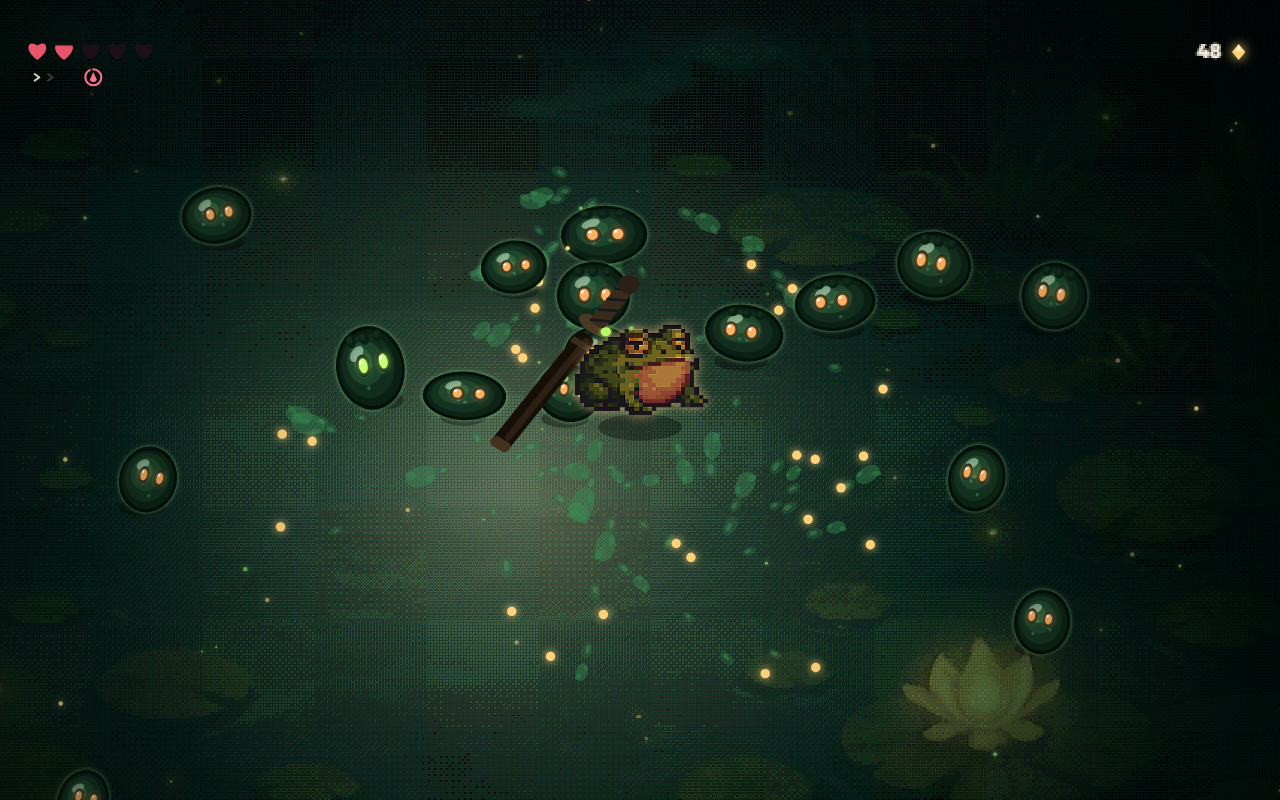
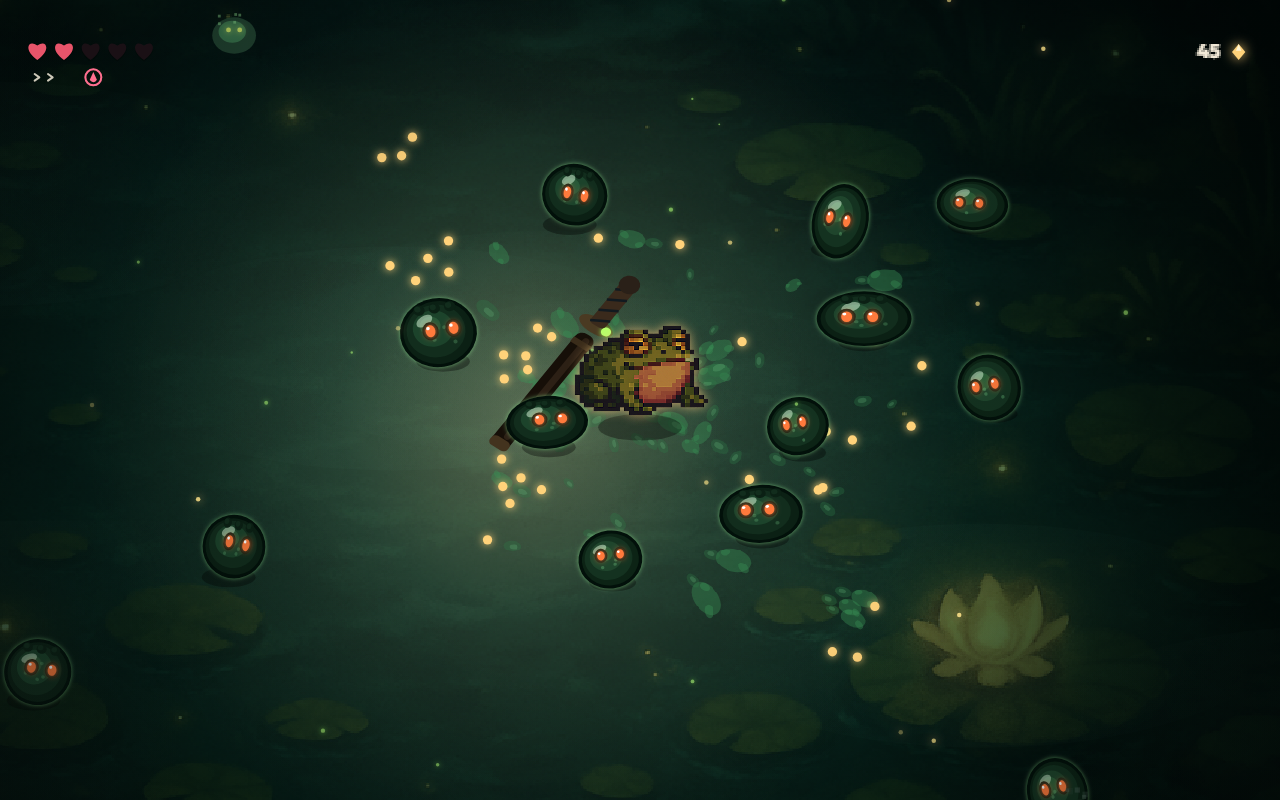
render: revert dither (failed blind confirm) + menacing pink enemy eyes
Blind confirmation round (3 judges on the improved build): the posterize+dither
HURT — 2/3 said it flattened contrast and muted the frame to a grey-green smear.
Reverted to the smooth backdrop. Same round (Reference judge vs real REF_02): enemies
read 'harmless' with cute lime/amber eyes; REF_02 blobs have menacing pink/red pinprick
eyes (the palette danger accent). Switched the swarm to hot-pink + ~40% ember eyes -
reads hostile and separates cleanly from the green pads + gold fireflies.

diff --git a/src/render/render.ts b/src/render/render.ts
@@ -112,7 +112,10 @@ let pixBackdropF = -1;
 // and a pixel-grain into the painting so it reads in the same visual language as the sprites, while
 // keeping the composition/lotus/pads. Reversible: BACKDROP_LEVELS=0 disables (pure smooth original).
 const BACKDROP_PIXEL = 1.6;   // slight down-res so the dither reads as chunky pixels
-const BACKDROP_LEVELS = 6;    // posterize levels/channel (fewer = harder steps); 0 = off (smooth)
+// Blind confirmation round REVERSED the dither: 2/3 judges said the halftone flattened the contrast
+// enemies/pickups need and "muted everything into a grey-green smear". Reverted to 0 (smooth original).
+// The art-law "heavy dithering" did NOT survive contact with real judging — kept as a tunable knob only.
+const BACKDROP_LEVELS = 0;    // posterize levels/channel (fewer = harder steps); 0 = off (smooth)
 function getPixBackdrop(bd: HTMLImageElement): HTMLCanvasElement {
   // __bpx is a QA override so the candidate-compare probe can sweep densities live (1 = full res)
   const f = Math.max(1, (window as any).__bpx ?? BACKDROP_PIXEL);
@@ -962,8 +965,11 @@ function drawSlime(ctx: CanvasRenderingContext2D, e: Enemy, r: number, time: num
   const look = e.facing;
   const lx = Math.cos(look) * r * 0.12, ly = Math.sin(look) * r * 0.08;
   const es = (e.kind === 'gloopa' ? 0.24 : e.kind === 'spikeblob' ? 0.21 : 0.2) * r;   // bigger, expressive
-  const warmEye = ((e.seed * 0.379) % 1) < 0.28;    // ~28% amber-eyed (REF_02 swarm has mixed eyes)
-  const iris = (warm || warmEye) ? '#ffb060' : '#c9ff72';
+  // REF_02 blobs have MENACING pink/red pinprick eyes (the palette's danger accent), not cute lime —
+  // blind Reference judge: current enemies "read harmless". Hot-pink swarm + ~40% ember variants;
+  // also separates the swarm from the green pads + gold fireflies it used to blend with.
+  const warmEye = ((e.seed * 0.379) % 1) < 0.4;
+  const iris = (warm || warmEye) ? '#ff7a3c' : '#ff5f9a';
   const blink = (((time + e.seed * 7) % (3.2 + (e.seed % 1.5))) < 0.13) ? 0.14 : 1;   // desynced blink
   for (const side of [-1, 1]) {
     const ox = side * r * 0.33 + lx, oy = -r * 0.1 + ly;
